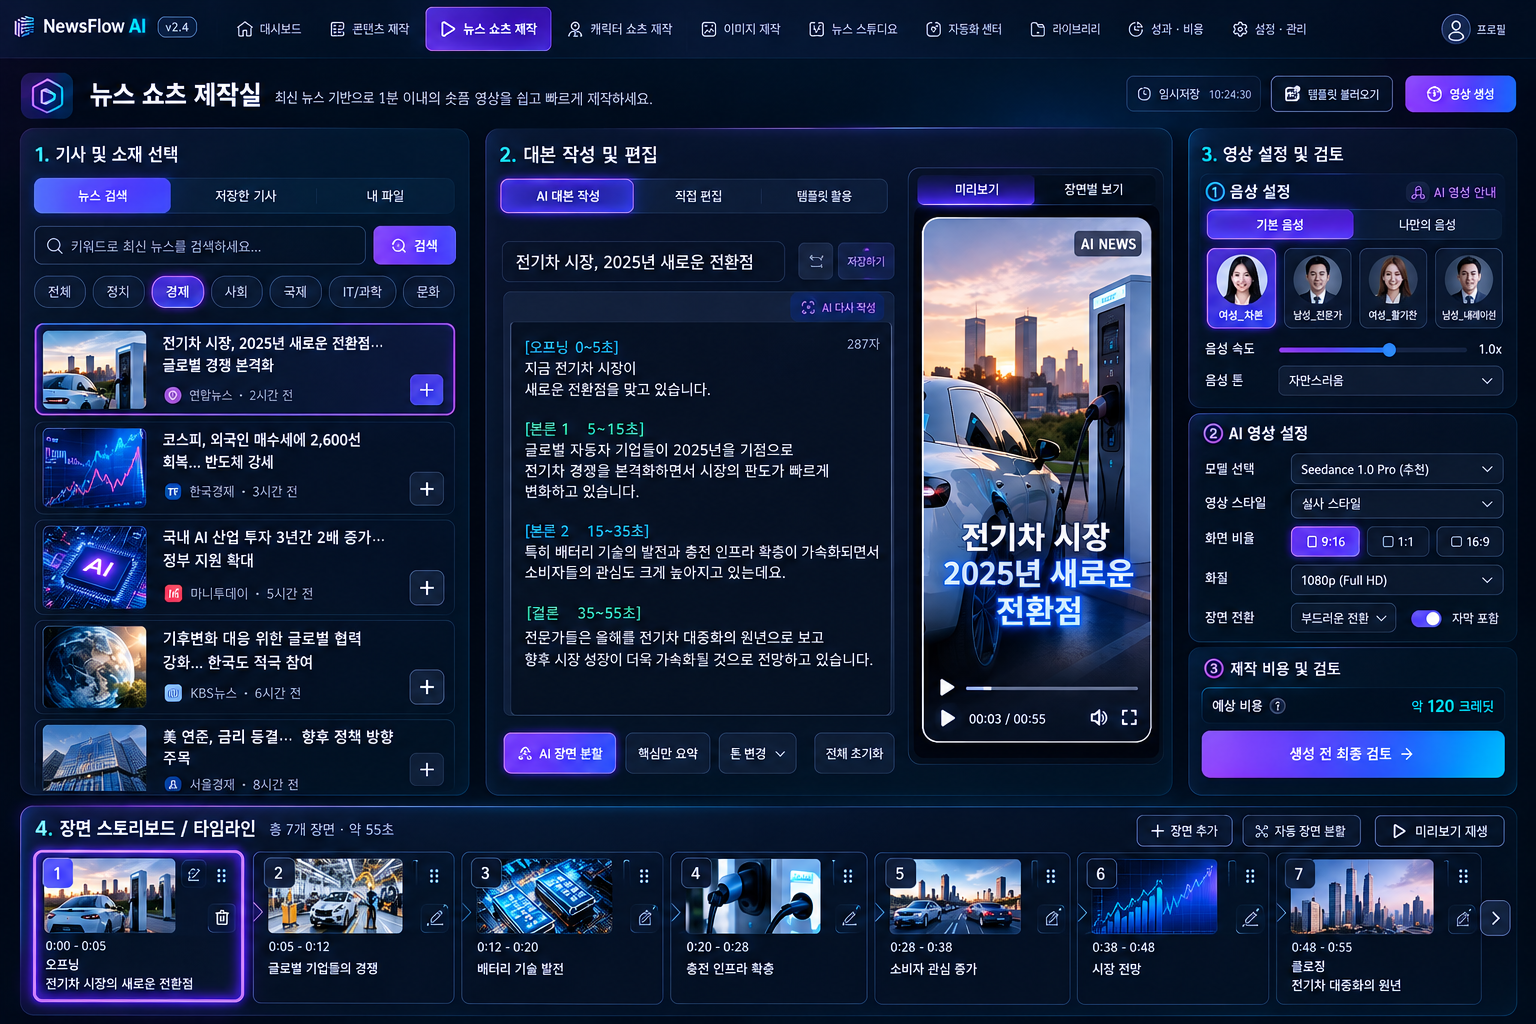
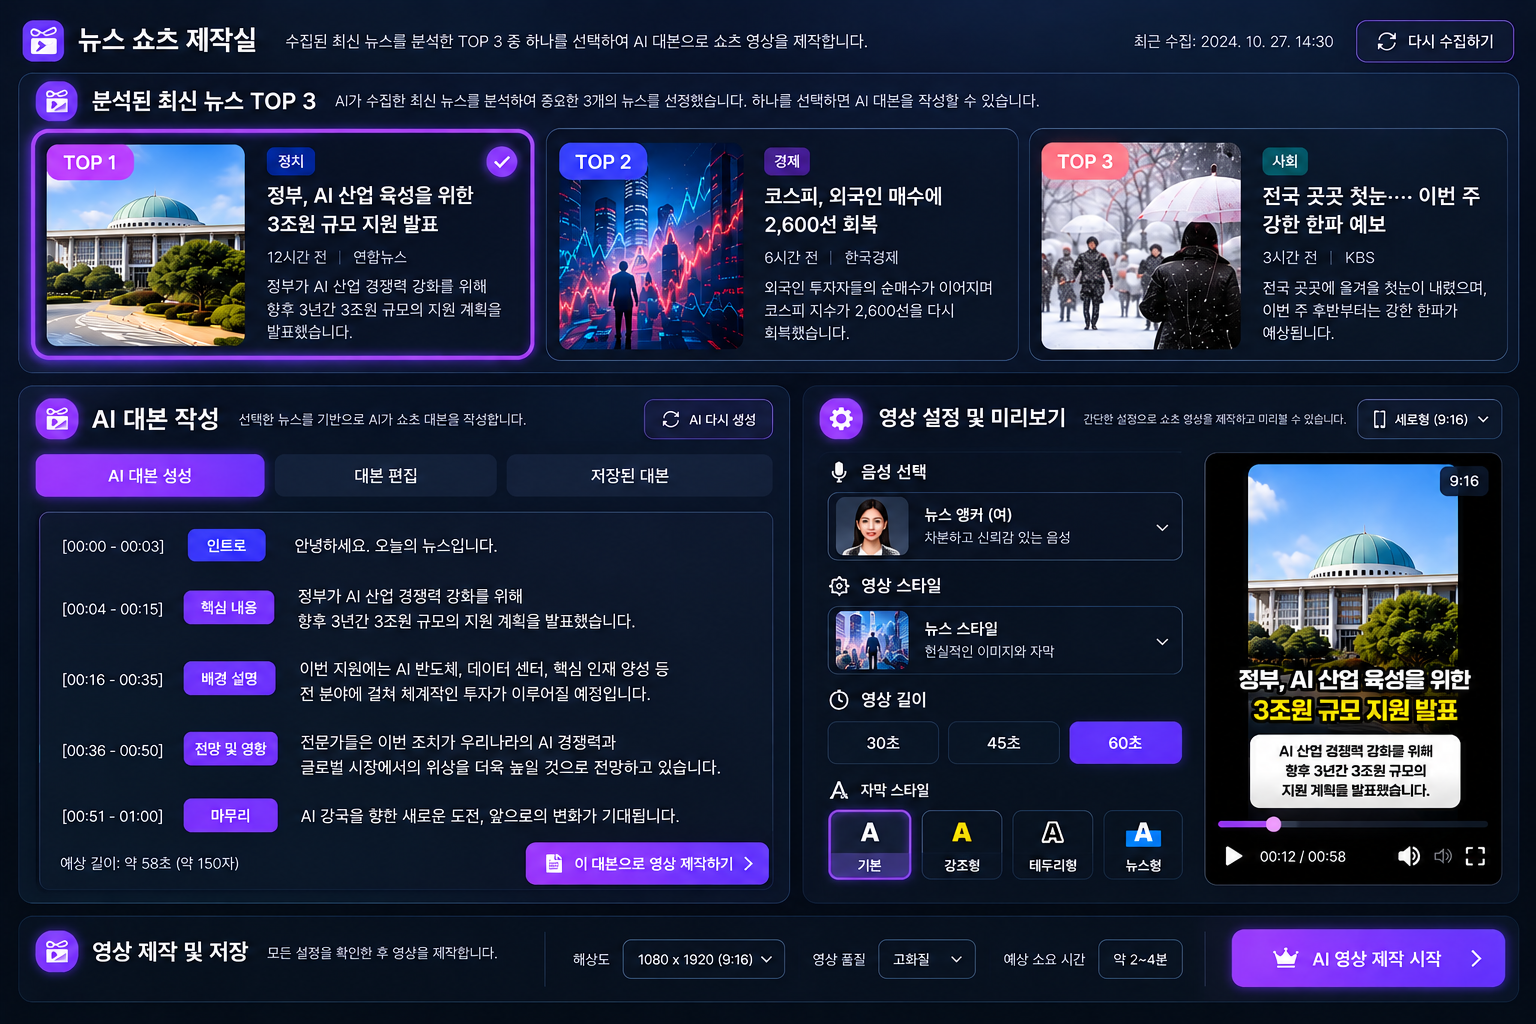
docs(design): update news shorts studio to user final PNG

diff --git a/newsflow-ai/docs/design/approved-20261027/approved-assets/APPROVED_DESIGN_MANIFEST.md b/newsflow-ai/docs/design/approved-20261027/approved-assets/APPROVED_DESIGN_MANIFEST.md
@@ -7,9 +7,19 @@
 
 ## 핵심 5종 최종 갱신 — 2026-10-27
 
-사용자가 GitHub 반영을 명시적으로 요청한 핵심 5종은 [CORE_5_APPROVED_MANIFEST.json](CORE_5_APPROVED_MANIFEST.json)을 기준으로 한다. 뉴스 쇼츠·캐릭터 쇼츠·독립 AI 이미지·뉴스 스튜디오 4개는 기존 승인 바이트를 유지한다. TOP 3는 재첨부한 **네온 뉴스 AI 이미지 제작실 대시보드.png** 원본으로 교체했다. 잘못 첨부했던 독립 이미지와 AI 생성 미검증 참고 시안은 사용하지 않았다.
+사용자가 GitHub 반영을 명시적으로 요청한 핵심 5종은 [CORE_5_APPROVED_MANIFEST.json](CORE_5_APPROVED_MANIFEST.json)을 기준으로 한다. 캐릭터 쇼츠·독립 AI 이미지·뉴스 스튜디오는 기존 승인 바이트를 유지한다. 뉴스 쇼츠는 아래 후속 최종 수정본으로 갱신했다. TOP 3는 재첨부한 **네온 뉴스 AI 이미지 제작실 대시보드.png** 원본으로 교체했다. 잘못 첨부했던 독립 이미지와 AI 생성 미검증 참고 시안은 사용하지 않았다.
 
[1 lines of base64/hex data omitted]
+
+## 뉴스 쇼츠 최종 수정본 후속 갱신 — 2026-10-27
+
+사용자가 첨부한 **뉴스 쇼츠 제작실 대시보드.png**를 뉴스 쇼츠 제작실 최종 수정본으로 지정하여 업데이트를 요청했다. [news_shorts_v2.png](news_shorts_v2.png)에 원본 바이트 그대로 반영했다. 파일명은 기존 참조 호환을 위해 유지한다.
+
[1 lines of base64/hex data omitted]
+- 해상도: **1536×1024**, 크기: **1,820,991 bytes**
+- 분석된 최신 뉴스 TOP 3 선택, AI 대본 작성, 영상 설정·미리보기, 영상 제작·저장 영역이 있는 사용자 제공 화면이다.
+- 재생성·리사이즈·문구 수정 없음. 이전 뉴스 쇼츠 원본은 Git 이력으로 보존한다. 나머지 핵심 디자인 4개는 직전 승인 상태를 유지한다.
[1 lines of base64/hex data omitted]
 
 ## 승인 근거와 해시 구분
 
@@ -19,15 +29,15 @@
 - [새 5개 전송 명세](https://github.com/jsbae1979-prog/JSBAE/blob/0fc3da0578dfd3ce4af8a12994e7e7a330139fc1/newsflow-ai/docs/design/approved-20261027/APPROVED_5_BINARY_UPLOAD_MANIFEST_20261027.md).
 - 파일명이나 BYTE_MATCH만으로 승격한 것이 아니다. 사용자 최종 선택 근거와 각 원본의 바이트 일치를 함께 확인했다.
 - 아래 SHA-256은 원본 바이트 해시다. Git blob SHA(별도 Git 객체 식별자)와 다르다. Git blob ID로 SHA-256 검사를 대체하지 않았다.
-- 최초 등록 당시 PNG 11개는 1536×1024였고 검증 11/11 PASS였다. 현재는 TOP 3만 사용자 최종 수정본 **1610×977**로 갱신했으며 나머지 10개는 그대로다. 이번 작업은 핵심 5종 원본 바이트 일치와 변경 범위를 확인한다.
+- 최초 등록 당시 PNG 11개는 1536×1024였고 검증 11/11 PASS였다. 현재는 TOP 3를 사용자 최종 수정본 **1610×977**, 뉴스 쇼츠를 후속 사용자 최종 수정본 **1536×1024**로 갱신했으며 나머지 9개는 그대로다. 이번 작업은 핵심 5종 원본 바이트 일치와 변경 범위를 확인한다.
 
 ## 최종 PNG 11개
 
-기본 경로: `newsflow-ai/docs/design/approved-20261027/approved-assets/`. 변경 없는 파일 링크는 최초 등록 커밋으로 고정했고, TOP 3 링크는 이 문서와 같은 버전의 파일을 가리킨다.
+기본 경로: `newsflow-ai/docs/design/approved-20261027/approved-assets/`. 변경 없는 파일 링크는 최초 등록 커밋으로 고정했고, TOP 3와 뉴스 쇼츠 링크는 이 문서와 같은 버전의 파일을 가리킨다.
 
 | 화면 | 승인 버전 | 최종 PNG 경로·URL | SHA-256 | 해상도 | 승인 근거 | 기존 후보와 관계 | 자산 판정 | 실제 기능 대응(기존 감사) |
 |---|---|---|---|---|---|---|---|---|
[5 lines of base64/hex data omitted]

diff --git a/newsflow-ai/docs/design/approved-20261027/FINAL_USER_SELECTION_20261027.md b/newsflow-ai/docs/design/approved-20261027/FINAL_USER_SELECTION_20261027.md
@@ -1,6 +1,6 @@
 # NewsFlow AI — 11개 디자인 최종 선택 기록
 
-현재 TOP 3 기준은 문서 마지막의 **핵심 5종 최종 갱신** 기록이다. 아래 최초 선택·등록 기록은 이력으로 보존한다.
+현재 TOP 3 기준은 **핵심 5종 최종 갱신**, 뉴스 쇼츠 기준은 마지막의 **뉴스 쇼츠 최종 수정본 후속 갱신** 기록이다. 아래 최초 선택·등록 기록은 이력으로 보존한다.
 
 2026-10-27 KST. 사용자 승인: 기존 비교표 **오른쪽 대화 생성 이미지 5개**를 최종 기준으로 선택하고, 이전에 바이트 일치한 6개는 유지.
 
@@ -47,3 +47,13 @@
 - [핵심 5종 출처·해시](approved-assets/CORE_5_APPROVED_MANIFEST.json) · [현재 승인 목록](approved-assets/APPROVED_DESIGN_MANIFEST.md).
 
 문서 브랜치 승인 PNG와 기록만 갱신한다. 제품 코드·운영 앱·PR #35·main 및 다른 브랜치는 수정하지 않는다.
+
+## 뉴스 쇼츠 최종 수정본 후속 갱신 — 2026-10-27
+
+사용자가 **뉴스 쇼츠 제작실 대시보드.png**를 최종 수정본으로 첨부하고 업데이트를 요청했다. `approved-assets/news_shorts_v2.png`를 원본 바이트 그대로 교체한다. 기존 2차 파일명은 참조 호환을 위해 유지한다.
+
[1 lines of base64/hex data omitted]
+- TOP 3는 직전 최종 수정본 유지. 캐릭터 쇼츠·독립 AI 이미지·뉴스 스튜디오도 유지.
+- 앞선 뉴스 쇼츠 2차 원본 유지 결정은 이번 사용자 최종본 지정으로 대체된다.
+- 원본 자체를 편집하거나 과거 디자인과 픽셀 동일하다고 주장하지 않는다.
+- GitHub 승인 PNG와 기록, 다운로드 패키지 갱신 범위이며 운영 코드·PR #35는 변경하지 않는다.
